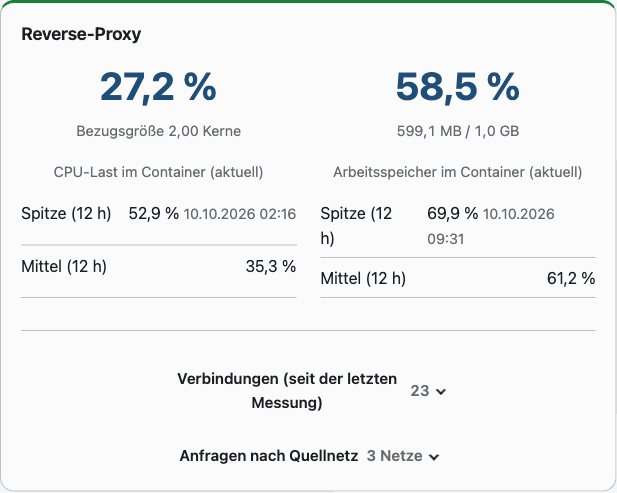
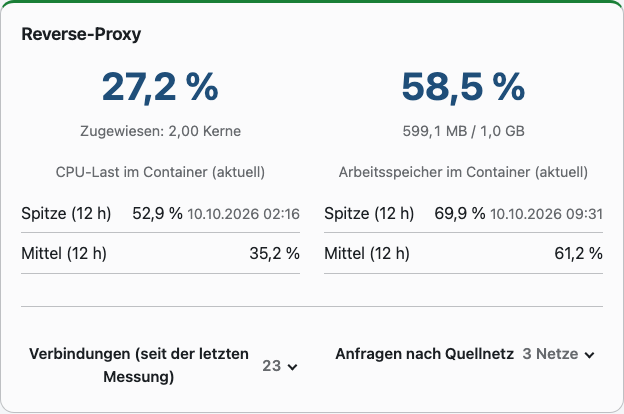
Kachel Reverse-Proxy: Bezugsgröße als "Zugewiesen:" beschriften
Auf der Kachel heisst die Zeile mit den zugeteilten Kernen jetzt "Zugewiesen:"
statt "Bezugsgröße"; die Screenshots der Kachel (122, 124) und der Details
(123) sind mit dem neuen Text neu aufgenommen.

diff --git a/views/admin/dashboard.php b/views/admin/dashboard.php
@@ -115,7 +115,7 @@ $incidentAlert = $incidentAlert ?? null;
                         <?= Html::e($percent((float) $cpu['current'])) ?>
                     </p>
                     <p class="auth-metrics__reference">
-                        Bezugsgröße <?= Html::e(number_format((float) $cpu['limit'], 2, ',', '.')) ?> Kerne
+                        Zugewiesen: <?= Html::e(number_format((float) $cpu['limit'], 2, ',', '.')) ?> Kerne
                     </p>
                     <p class="card__hint">CPU-Last im Container (aktuell)</p>
                     <ul class="status-list">
